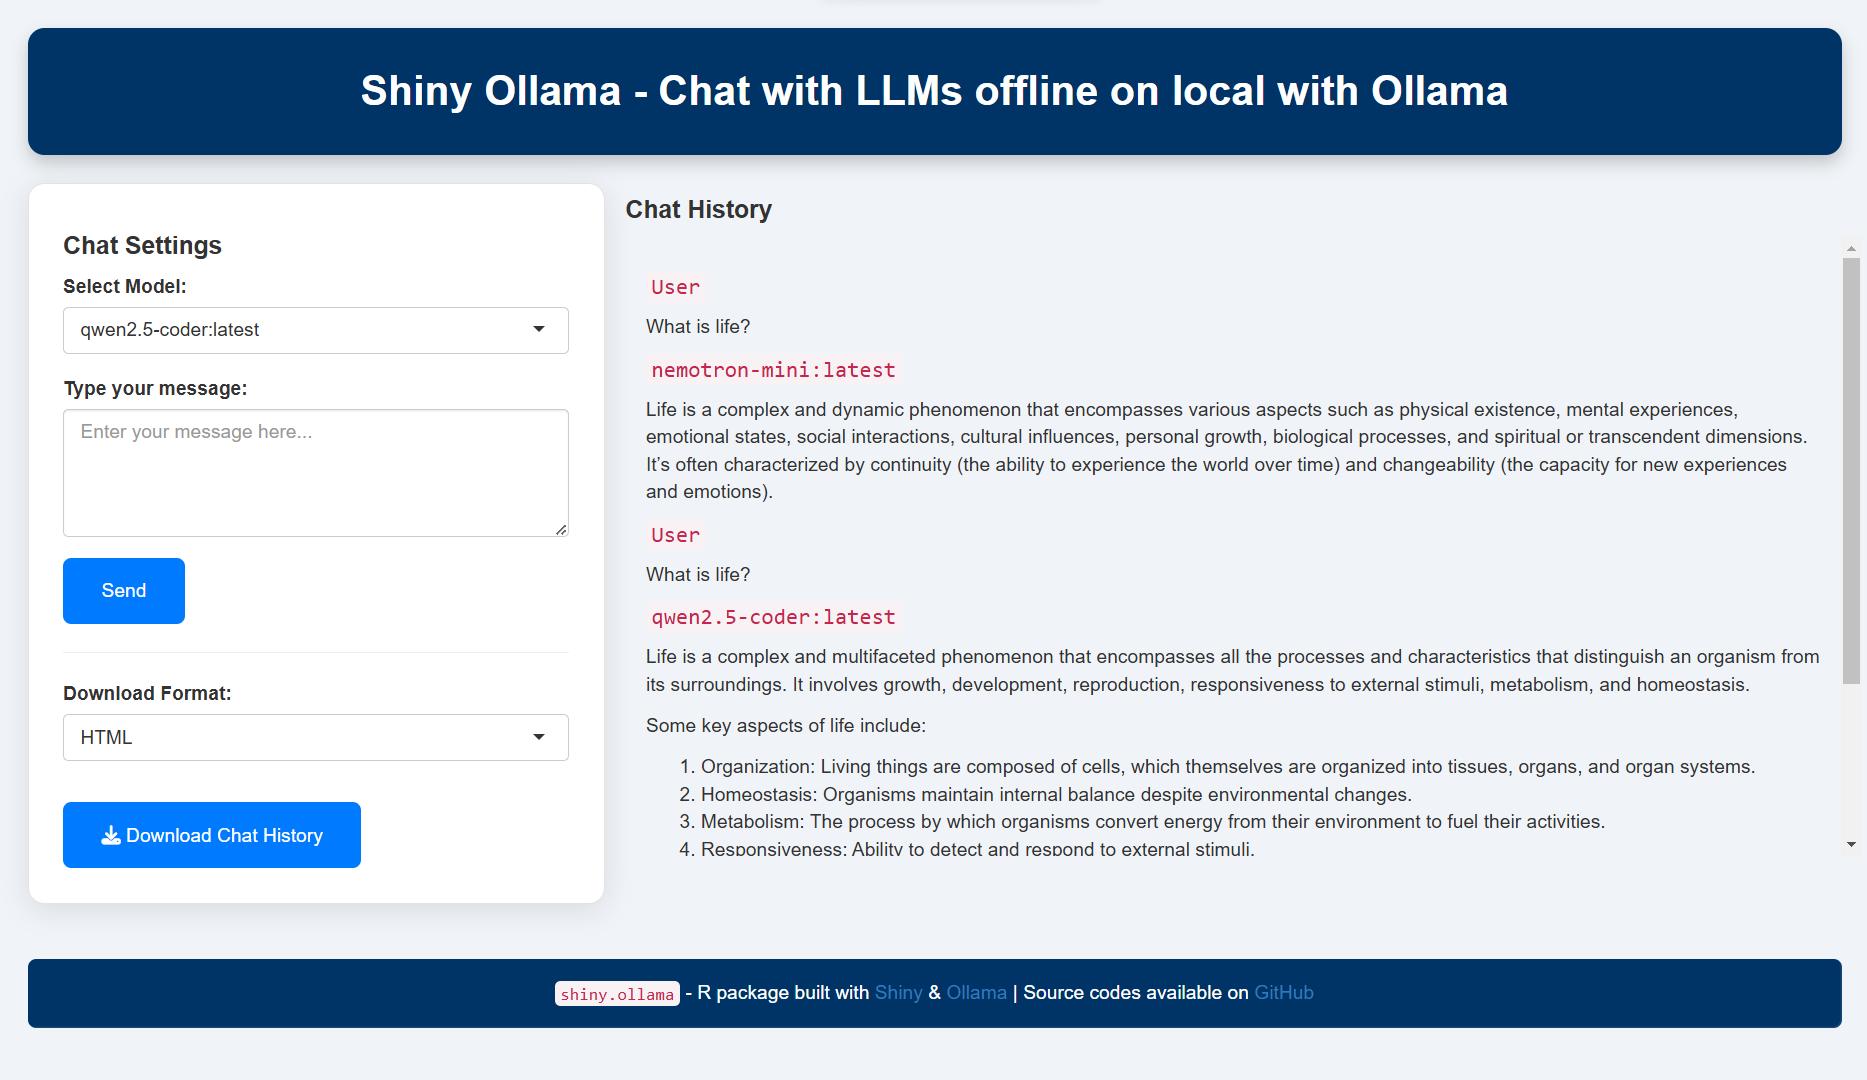
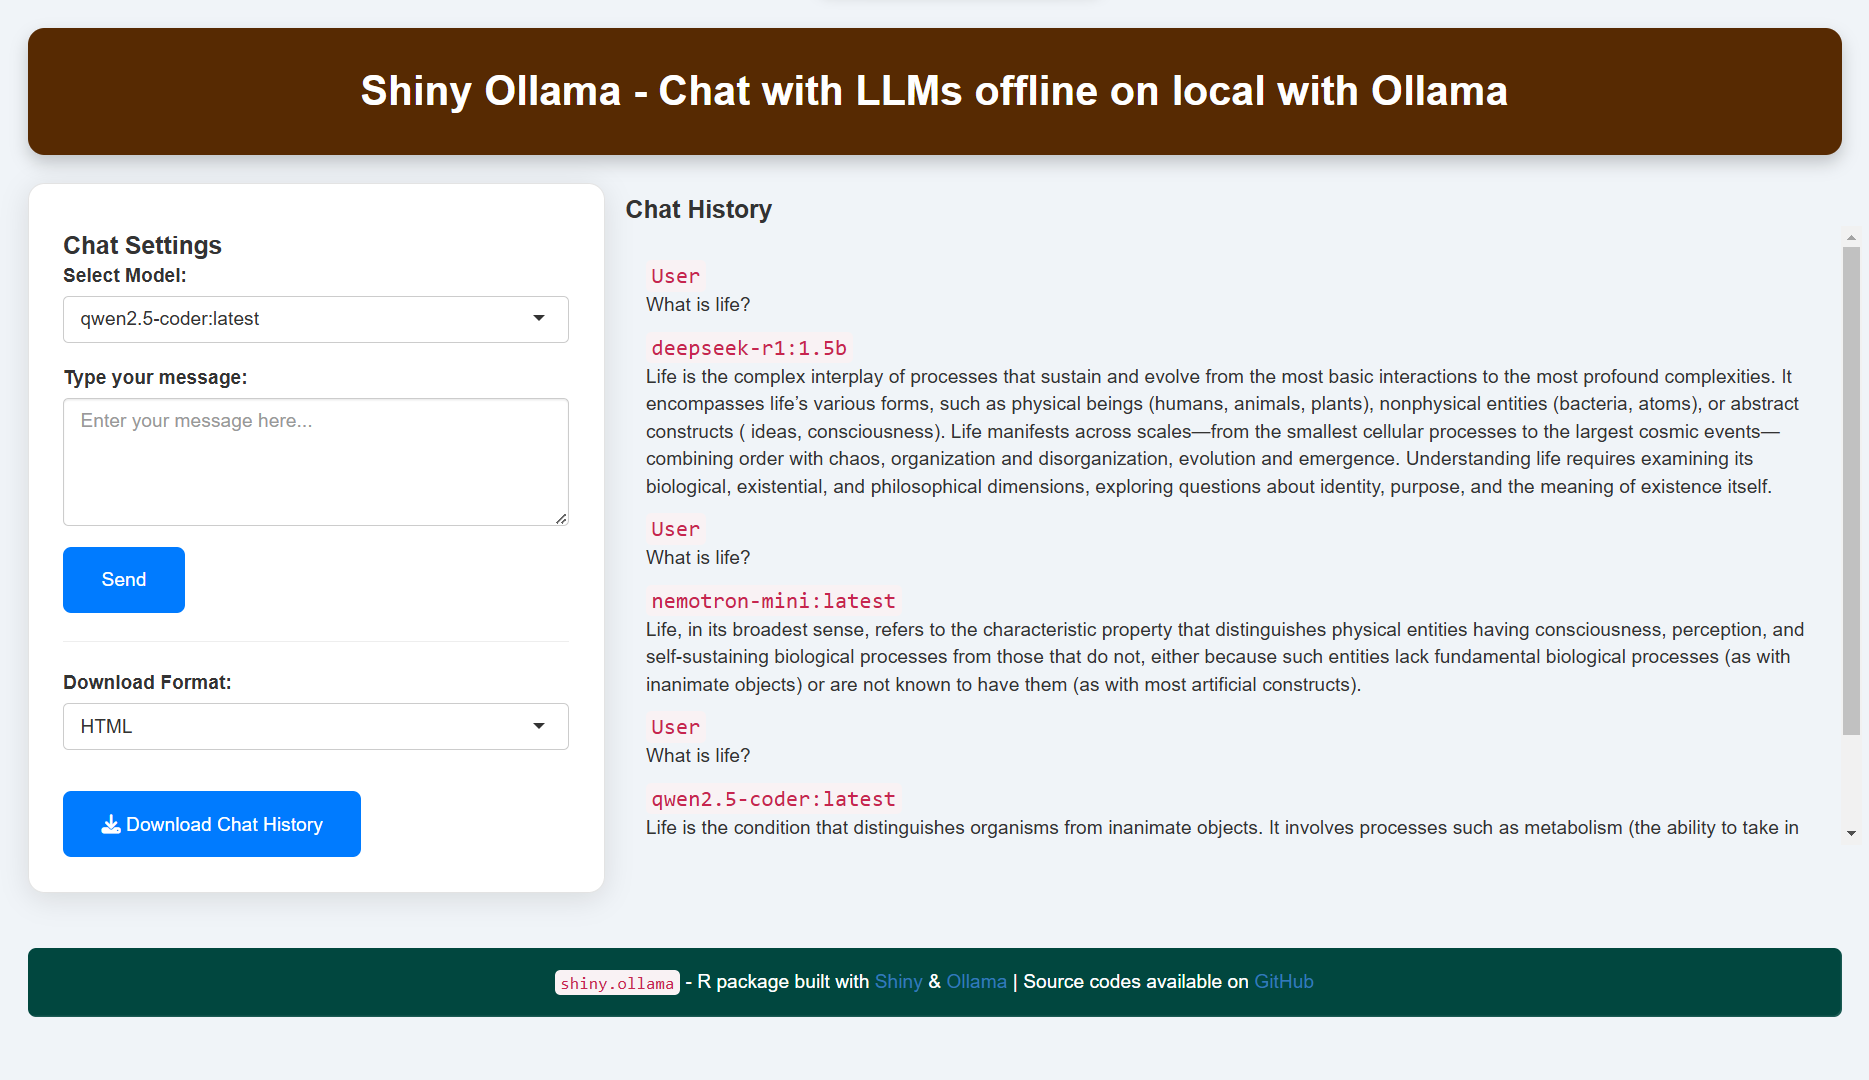
[ADD] app ui screenshot, updated readme

diff --git a/README.md b/README.md
@@ -1,8 +1,7 @@
-# `shiny.ollama` 🚀
-
+# `shiny.ollama` 
 
 [![CRAN Version](https://img.shields.io/cran/v/shiny.ollama)](https://cran.r-project.org/package=shiny.ollama)
-![](https://img.shields.io/badge/Upgrades%20in%20Progress-Currently%20serving%20a%20basic%20release-cyan)
+[![Dev Version](https://img.shields.io/badge/dev-0.1.1-blue)](https://github.com/your-repo/shiny.ollama)
 
 **R Shiny Interface for Chatting with LLMs Offline via Ollama**
 
@@ -19,7 +18,7 @@
 ## ⚠ Disclaimer  
 **Important:** `shiny.ollama` requires Ollama to be installed on your system. Without it, this package will not function. Follow the [Installation Guide](#-how-to-install-ollama) below to set up Ollama first.  
 
-## 📦 Installation  
+##  Installation  
 ### From CRAN (Recommended)
 ```r
 install.packages("shiny.ollama")
@@ -33,14 +32,14 @@ install.packages("devtools")
 devtools::install_github("ineelhere/shiny.ollama")
 ```
 
-## ✨ Features  
-- 🔒 **Fully Offline**: No internet required – complete privacy
-- 🎛 **Model Selection**: Easily choose from available LLM models
-- 💬 **Message Input**: Engage in conversations with AI
-- 💾 **Save & Download Chats**: Export your chat history
-- 🖥 **User-Friendly Interface**: Powered by R Shiny
+##  Features  
+-  **Fully Offline**: No internet required – complete privacy
+-  **Model Selection**: Easily choose from available LLM models
+-  **Message Input**: Engage in conversations with AI
+-  **Save & Download Chats**: Export your chat history
+-  **User-Friendly Interface**: Powered by R Shiny
 
-## 🚀 Quick Start  
+##  Quick Start  
 Launch the Shiny app in R with:
 ```r
 library(shiny.ollama)
@@ -49,20 +48,25 @@ library(shiny.ollama)
 shiny.ollama::run_app()
 ```
 
-## 📥 How to Install Ollama  
+##  How to Install Ollama  
 To use this package, install Ollama first:  
 
-1. 🔗 Download Ollama from [here](https://ollama.com) (Mac, Windows, Linux supported).
-2. 🛠 Install it by following the provided instructions.
-3. ✅ Verify your installation:
+1.  Download Ollama from [here](https://ollama.com) (Mac, Windows, Linux supported).
+2.  Install it by following the provided instructions.
+3.  Verify your installation:
    ```sh
    ollama --version
    ```
    If successful, the version number will be displayed.
-4. 📌 Pull a model (e.g., [Llama3.3](https://ollama.com/library/llama3.3)) to get started.
 
-## 📄 License  
-This project is licensed under the **Apache License 2.0**.
+4.  Pull a model (e.g., [deepseek-r1](https://ollama.com/library/deepseek-r1)) to get started.
 
-💡 Contributions, feedback, and feature requests are always welcome! Stay tuned for more updates. 🚀
+## License and Declaration
+This project is an independent, passion-driven open source initiative, released under the **`Apache License 2.0`**. 
+
+It is not affiliated with, owned by, funded by, or influenced by any external organization. The project is dedicated to fostering a community of developers who share a love for coding and collaborative innovation.
+
+ Contributions, feedback, and feature requests are always welcome! 
+ 
+ Stay tuned for more updates. 🚀
 
